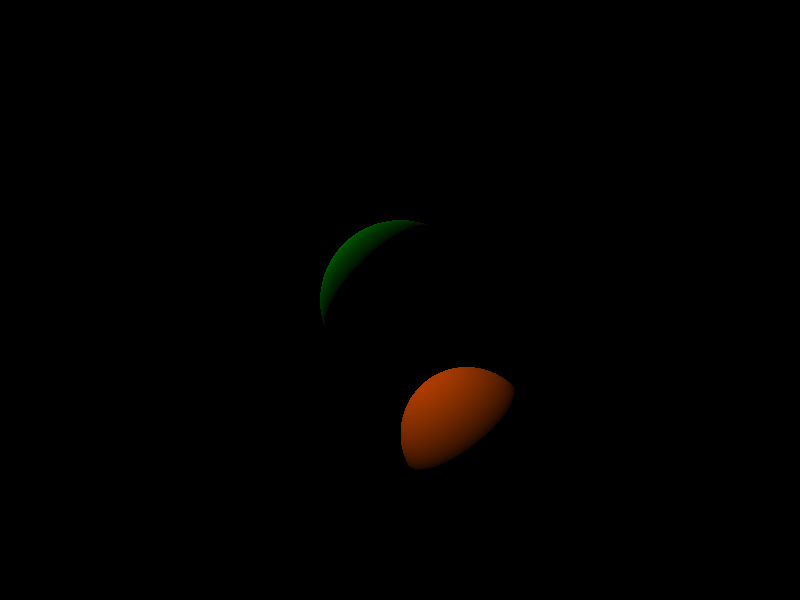
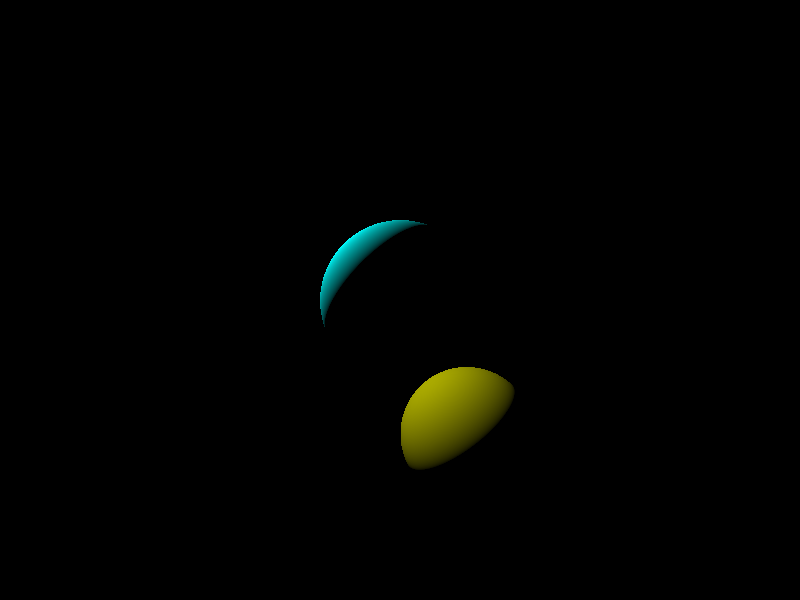
Raytracer : created method to compute light for for diffuse objects

Changed region(s): [[0.5, 0.6, 0.6562, 0.78], [0.375, 0.36, 0.5312, 0.54]]

diff --git a/TP2/Synthese_TP2/Scene.cpp b/TP2/Synthese_TP2/Scene.cpp
@@ -12,16 +12,13 @@ Scene::~Scene() {}
 void Scene::renderImage(const std::string &fileName) {
 
     //Red light
-    Light redLight(glm::vec3(-200, -200, 300), color3(1000000, 100000, 42000));
+    Light redLight(glm::vec3(-200, -200, 300), color3(1000000, 1000000, 1000000));
     m_lightList.emplace_back(redLight);
 
-    m_objectList.emplace_back( std::shared_ptr<SceneObject>( new Sphere( color3(0, 1, 0), SceneObjectType::DIFFUSE, glm::vec3(0, 0, 200), 100) ) );
+    m_objectList.emplace_back( std::shared_ptr<SceneObject>( new Sphere( color3(0, 1, 1), SceneObjectType::DIFFUSE, glm::vec3(0, 0, 200), 100) ) );
     m_objectList.emplace_back( std::shared_ptr<SceneObject>( new Sphere( color3(1, 1, 0), SceneObjectType::DIFFUSE, glm::vec3(100, 200, 400), 100) ) );
 
     std::vector<std::vector<color3>> pixels(m_width, std::vector<color3>(m_height, color3(0, 0, 0)));
-
-    // Setting to 0 : the lowest value possible
-    color3 m_maxValueVector = color3(0, 0, 0);
 
     // Compute pixel color
     // Also retrieves the max value on each color component
@@ -29,55 +26,10 @@ void Scene::renderImage(const std::string &fileName) {
         for (unsigned int y = 0; y < m_height; y++){
             Ray ray = m_camera->getRay(x, y);
             pixels[x][y] = rayTracePixel(ray);
-
-            m_maxValueVector = glm::max(m_maxValueVector, pixels[x][y]);
-
         }
     }
-
-    m_maxValue = std::max(m_maxValueVector.r, std::max(m_maxValueVector.g, m_maxValueVector.b));
 
     createImage("../../../result.png", pixels);
-}
-
-
-void Scene::createImage(std::string path, std::vector<std::vector<color3>> pixels) {
-    m_image.create(m_width, m_height);
-
-    for (unsigned int x = 0; x < m_width; ++x) {
-        for (unsigned int y = 0; y < m_height; y++) {
-            m_image.setPixel(x, y, convertPixel( pixels[x][y] ) );
-        }
-    }
-
-    m_image.saveToFile(path);
-}
-
-
-
-sf::Color Scene::convertPixel(color3 &p) {
-    
-    float maxIntensity = 2.0f;
-
-    return sf::Color(
-        std::clamp((int)(std::powf(p.r, 1 / 2.2) * 255.0f / maxIntensity), 0, 255),
-        std::clamp((int)(std::powf(p.g, 1 / 2.2) * 255.0f / maxIntensity), 0, 255),
-        std::clamp((int)(std::powf(p.b, 1 / 2.2) * 255.0f / maxIntensity), 0, 255)
-    );
-
-    /*return sf::Color(
-        changeRange(p.r, 0.0f, m_maxValue, 0.0f, 255.0f),
-        changeRange(p.g, 0.0f, m_maxValue, 0.0f, 255.0f),
-        changeRange(p.b, 0.0f, m_maxValue, 0.0f, 255.0f)
-    );*/
-}
-
-template <typename T>
-T changeRange(T const &OldValue, T const &OldMin, T const &OldMax, T const &NewMin, T const &NewMax) {
-    T OldRange = (OldMax - OldMin);
-    T NewRange = (NewMax - NewMin);
-    T NewValue = (((OldValue - OldMin) * NewRange) / OldRange) + NewMin;
-    return NewValue;
 }
 
 
@@ -102,13 +54,28 @@ color3 Scene::rayTracePixel(const Ray &ray) {
         return m_backgroundColor;
     }
 
+    color3 pixelColor(0, 0, 0);
 
+    switch (intersectedObject.value()->m_type)
+    {
+        case SceneObjectType::DIFFUSE:
+
+            pixelColor += computeDiffuseObject(position, normal, intersectedObject.value());
+
+            break;
+        case SceneObjectType::REFLECTIVE:
+            break;
+        default:
+            break;
+    }
+
+
+    return pixelColor;
+}
+
+color3 Scene::computeDiffuseObject(const glm::vec3 &position, const glm::vec3 &normal, const std::shared_ptr<SceneObject> &object) {
     glm::vec3 positionLightIntersected;
     glm::vec3 normalLightIntersected;
-
-    float osef;
-
-
 
     color3 colorLighted(0, 0, 0);
     // Should I count the number of element ?
@@ -119,7 +86,7 @@ color3 Scene::rayTracePixel(const Ray &ray) {
         Ray toLightRay = light.getRayFrom(position);
 
         if (!lightIntersection(position, light, positionLightIntersected, normalLightIntersected)) {
-            colorLighted += CalculateIntensity(position, normal, light, toLightRay, intersectedObject.value()->m_albedo);
+            colorLighted += CalculateIntensity(position, normal, light, toLightRay, object->m_albedo);
         }
 
     }
@@ -135,7 +102,7 @@ color3 Scene::CalculateIntensity(const glm::vec3 &position, const glm::vec3 &nor
 }
 
 
-bool Scene::lightIntersection(const glm::vec3 &position, const Light &light, glm::vec3 &positionLight, glm::vec3 &normalLight) {
+bool Scene::lightIntersection(const glm::vec3 &position, const Light &light, glm::vec3 &positionLightIntersected, glm::vec3 &normalLightIntersected) {
     // Guard for empty list
     if (m_objectList.size() == 0) {
         return false;
@@ -147,8 +114,8 @@ bool Scene::lightIntersection(const glm::vec3 &position, const Light &light, glm
     float distMax2 = glm::distance2(position, light.m_position);
 
     for (auto &object : m_objectList) {
-        if (object->intersect(ray, positionLight, normalLight, t)) {
-            float currDist2 = glm::distance2(position, positionLight);
+        if (object->intersect(ray, positionLightIntersected, normalLightIntersected, t)) {
+            float currDist2 = glm::distance2(position, positionLightIntersected);
 
             // If object is intersected BETWEEN position and light position
                 // return true;
@@ -161,8 +128,6 @@ bool Scene::lightIntersection(const glm::vec3 &position, const Light &light, glm
     // If we reach here, nothing was hit between position and light position
     return false;
 }
-
-
 
 std::optional<std::shared_ptr<SceneObject>> Scene::findClosestIntersection(const Ray &ray, glm::vec3 &position, glm::vec3 &normal) {
 
@@ -202,6 +167,39 @@ std::optional<std::shared_ptr<SceneObject>> Scene::findClosestIntersection(const
     return { closestObject };
 }
 
+
+
 const sf::Image &Scene::getImage() const {
     return m_image;
 }
+
+void Scene::createImage(std::string path, std::vector<std::vector<color3>> pixels) {
+    m_image.create(m_width, m_height);
+
+    for (unsigned int x = 0; x < m_width; ++x) {
+        for (unsigned int y = 0; y < m_height; y++) {
+            m_image.setPixel(x, y, convertPixel(pixels[x][y]));
+        }
+    }
+
+    m_image.saveToFile(path);
+}
+
+sf::Color Scene::convertPixel(color3 &p) {
+
+    float maxIntensity = 2.0f;
+
+    return sf::Color(
+        std::clamp((int)(std::powf(p.r, 1 / 2.2) * 255.0f / maxIntensity), 0, 255),
+        std::clamp((int)(std::powf(p.g, 1 / 2.2) * 255.0f / maxIntensity), 0, 255),
+        std::clamp((int)(std::powf(p.b, 1 / 2.2) * 255.0f / maxIntensity), 0, 255)
+    );
+}
+//
+//template <typename T>
+//T changeRange(T const &OldValue, T const &OldMin, T const &OldMax, T const &NewMin, T const &NewMax) {
+//    T OldRange = (OldMax - OldMin);
+//    T NewRange = (NewMax - NewMin);
+//    T NewValue = (((OldValue - OldMin) * NewRange) / OldRange) + NewMin;
+//    return NewValue;
+//}

diff --git a/TP2/Synthese_TP2/Scene.h b/TP2/Synthese_TP2/Scene.h
@@ -32,7 +32,6 @@ private:
 	std::vector<std::shared_ptr<SceneObject>> m_objectList;
 	color3 m_backgroundColor;
 	sf::Image m_image;
-	float m_maxValue = 0.0f;
 
 public:
 	Scene(unsigned int width, unsigned int height, std::shared_ptr<Camera> camera, const color3 &backgroundColor);
@@ -45,10 +44,12 @@ public:
 	static color3 CalculateIntensity(const glm::vec3 &position, const glm::vec3 &normal, const Light &light, const Ray &toLightRay, const color3 &albedo);
 
 private:
-	color3 Scene::rayTracePixel(const Ray &ray);
+	color3 rayTracePixel(const Ray &ray);
 	std::optional<std::shared_ptr<SceneObject>> findClosestIntersection(const Ray &ray, glm::vec3 &position, glm::vec3 &normal);
 
-	bool lightIntersection(const glm::vec3 &position, const Light &light, glm::vec3 &positionLight, glm::vec3 &normalLight);
+	bool lightIntersection(const glm::vec3 &position, const Light &light, glm::vec3 &positionLightIntersected, glm::vec3 &normalLightIntersected);
+
+	color3 computeDiffuseObject(const glm::vec3 &position, const glm::vec3 &normal, const std::shared_ptr<SceneObject> &object);
 
 	void createImage(std::string path, std::vector<std::vector<color3>> pixels);
 	sf::Color convertPixel(color3 &p);
@@ -56,5 +57,5 @@ private:
 };
 
 
-template <typename T>
-T changeRange(T const &OldValue, T const &OldMin, T const &OldMax, T const &NewMin, T const &NewMax);
+//template <typename T>
+//T changeRange(T const &OldValue, T const &OldMin, T const &OldMax, T const &NewMin, T const &NewMax);
